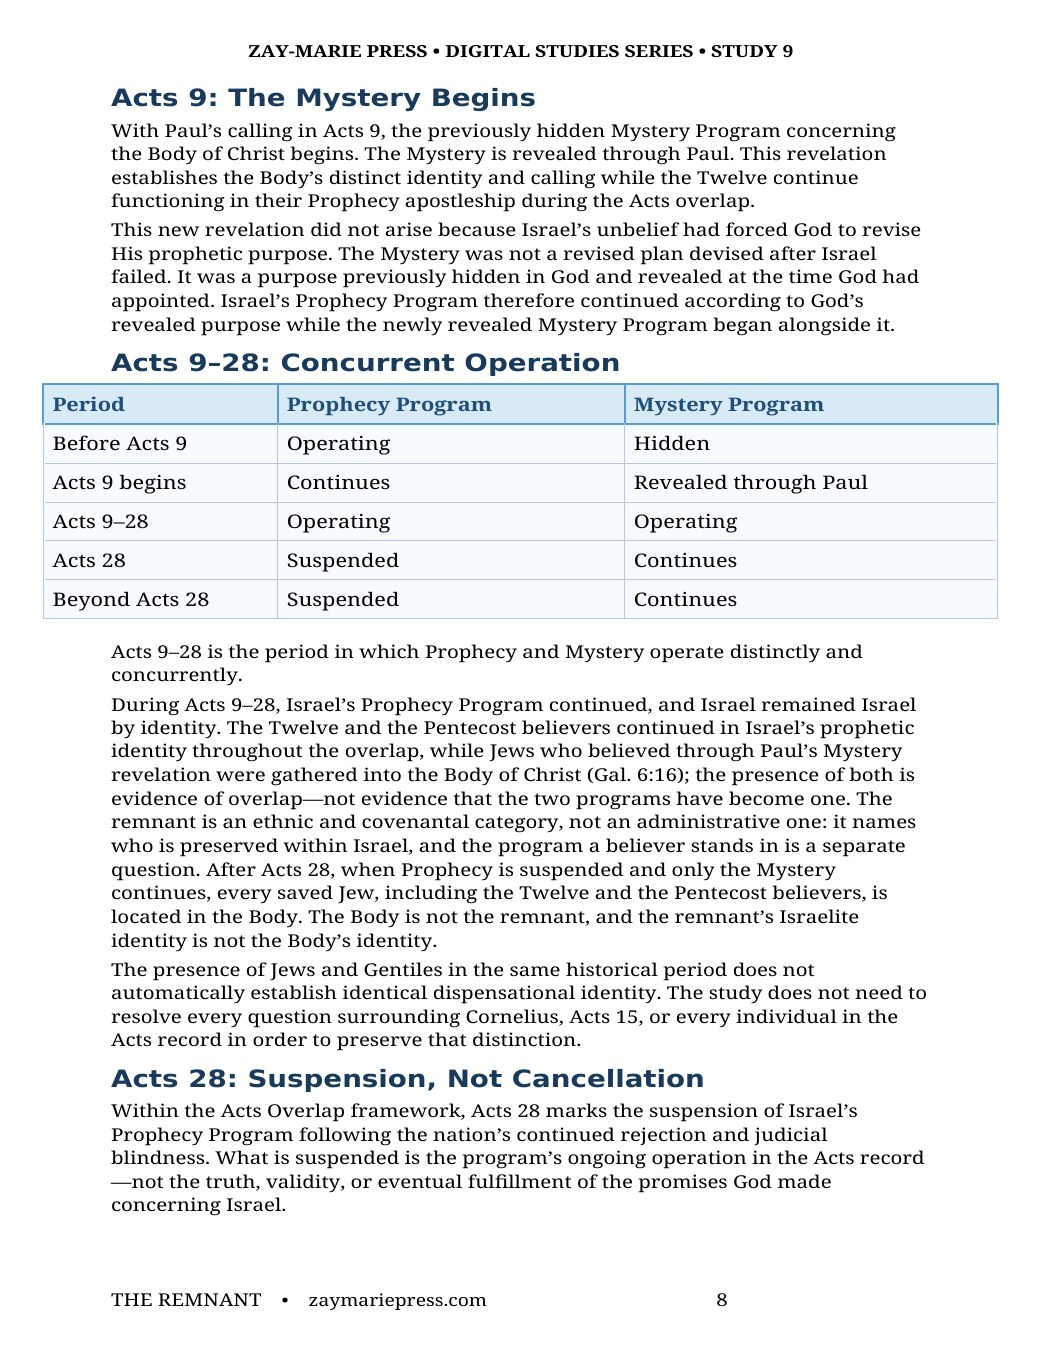
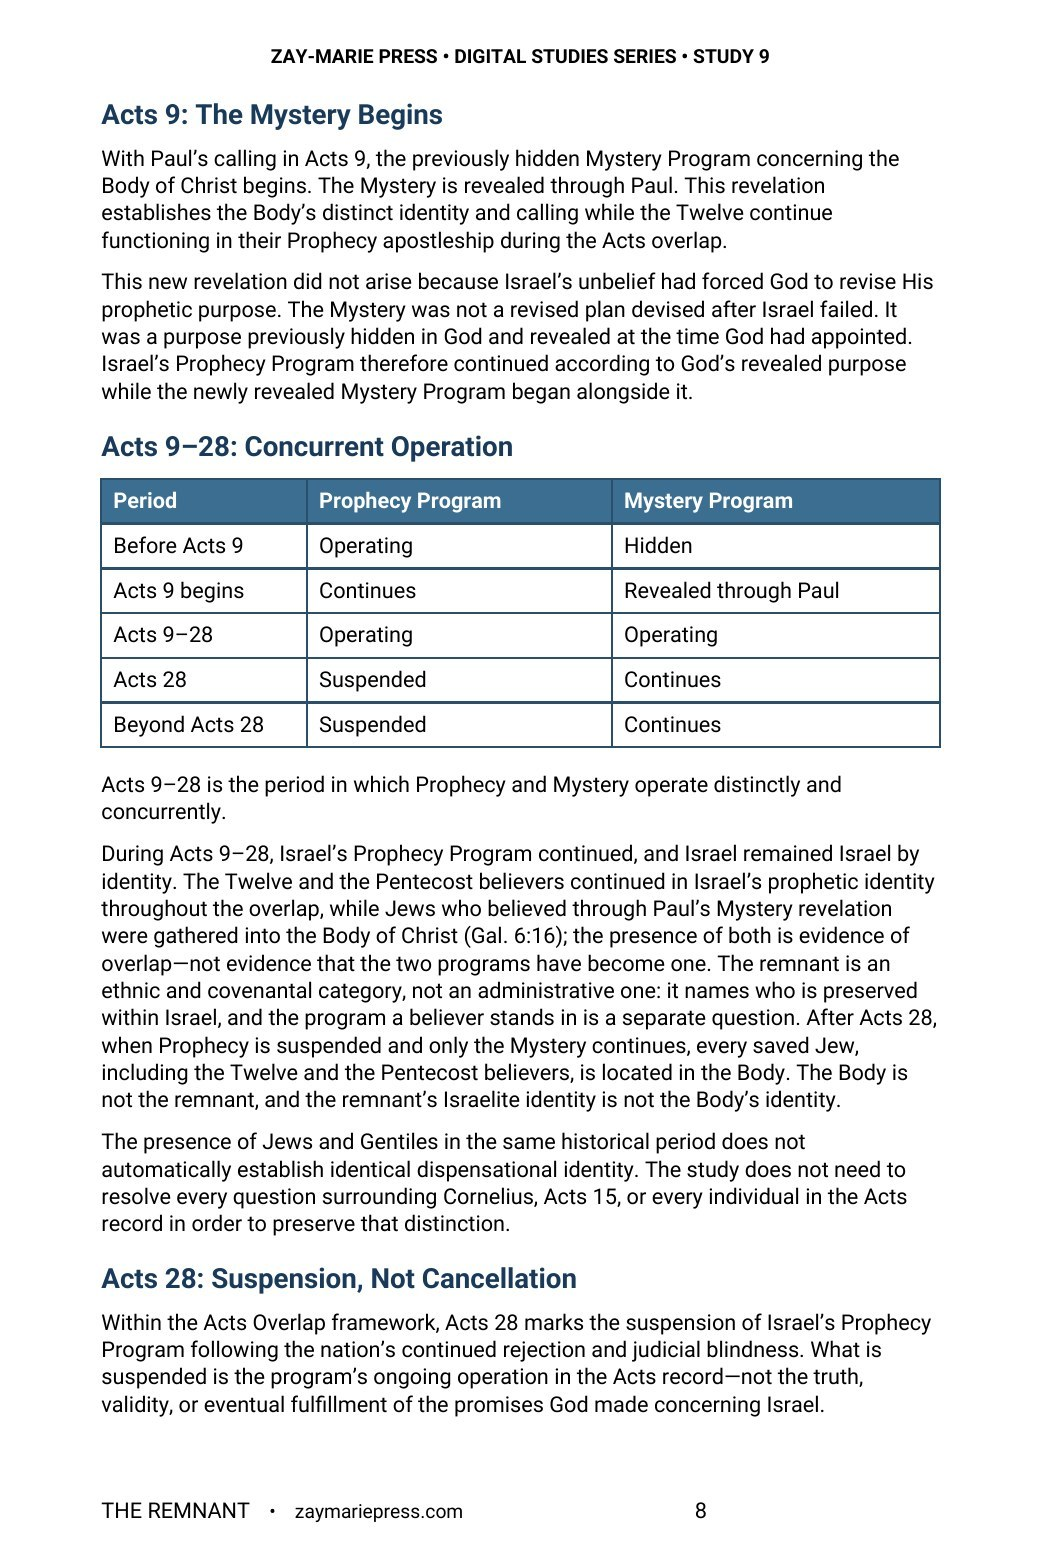
Study 9: preview strip re-cut from the Roboto rebuild (TOC p2, What You Will Learn p3, Acts 9-28 p8); audit tracker v1.23
Claude-Session: https://claude.ai/code/session_01TLNFW47XCW6YAMUxScR3v4

Changed region(s): [[0.0307, 0.0312, 0.9837, 0.9042], [0.0922, 0.9354, 0.2459, 0.9666]]

diff --git a/study-09-the-remnant.html b/study-09-the-remnant.html
@@ -14,7 +14,7 @@
 <section class="detail-section soft"><div class="wrap"><div class="eyebrow">WHAT YOU’LL STUDY</div><h2>God’s Faithfulness Preserves Distinction</h2><div class="study-points"><div class="study-point"><h3>The Biblical Pattern of Preservation</h3><p>See how God preserves through judgment without turning every example into the same remnant category.</p></div><div class="study-point"><h3>The Remnant Within Israel</h3><p>Follow the remnant from Elijah and the prophets into Paul’s argument in Romans 11.</p></div><div class="study-point"><h3>Messiah, the Kingdom, and Believing Israel</h3><p>Distinguish Israel’s Kingdom apostleship from the Body of Christ, and trace where believing Jews stand in the Mystery administration.</p></div><div class="study-point"><h3>The Remnant During the Acts Overlap</h3><p>Follow the remnant category through Acts 9–28 as Prophecy and Mystery operate together, without merging the two programs.</p></div><div class="study-point"><h3>Romans 11: Preservation Without Identity Transfer</h3><p>Work through Elijah, the remnant according to grace, and the olive tree without collapsing participation into identity.</p></div><div class="study-point"><h3>Two Distinct Destinies, One Faithful God</h3><p>Preserve Israel’s prophetic future and the Body’s heavenly calling in their distinct revealed settings.</p></div></div></div></section>
 <section class="detail-section cream"><div class="wrap"><div class="eyebrow">KEY SCRIPTURES</div><h2>Examine the Passages for Yourself</h2><div class="scripture-grid"><div class="scripture-card"><h3>Genesis 6–7</h3><p>Establishes the broad pattern of God preserving through judgment.</p></div><div class="scripture-card"><h3>1 Kings 19:18</h3><p>Records God’s preserved seven thousand within Israel in Elijah’s day.</p></div><div class="scripture-card"><h3>Isaiah 10:20–22</h3><p>Sets the remnant within Israel’s prophetic judgment and future return.</p></div><div class="scripture-card"><h3>Jeremiah 23:3</h3><p>Promises the gathering of Israel’s remnant from the countries of scattering.</p></div><div class="scripture-card"><h3>Matthew 19:28</h3><p>Places the Twelve within Israel’s future Kingdom setting.</p></div><div class="scripture-card"><h3>Romans 9–11</h3><p>Develops Israel, election, the remnant, Gentiles, and God’s continuing faithfulness.</p></div><div class="scripture-card"><h3>Acts 28:25–28</h3><p>Marks the suspension of Israel’s Prophecy Program without cancellation of Israel’s promises.</p></div><div class="scripture-card"><h3>Revelation 7:4–8</h3><p>Identifies Israel’s tribes within the continuing prophetic horizon.</p></div></div></div></section>
 <section class="detail-section"><div class="wrap"><div class="eyebrow">FROM THE STUDY</div><h2>God Is Faithful</h2><div class="excerpt"><blockquote>“The remnant is not the reason God is faithful. The remnant is evidence that God is faithful.”</blockquote><p>Israel’s unbelief, judgment, and suspension do not erase what God revealed concerning Israel. Likewise, the Mystery revealed through Paul does not require Israel to become the Body of Christ. God preserves the distinctions He revealed and fulfills each purpose according to its own calling.</p></div></div></section>
-<section class="detail-section soft"><div class="wrap"><div class="eyebrow">A LOOK INSIDE</div><h2>Preview the Study Before You Purchase</h2><p class="preview-instruction">Click any page to enlarge it for reading.</p><div class="preview-grid"><div class="preview-card"><a class="preview-image-link" data-preview-lightbox href="assets/study-09-page-3.jpg"><img src="assets/study-09-page-3.jpg" alt="Study 9 interior preview — page 3, table of contents"/></a><div class="page-no">Page 3</div><h3>Table of Contents</h3><p>See the full structure of the study, from the introduction through the final synthesis.</p></div><div class="preview-card"><a class="preview-image-link" data-preview-lightbox href="assets/study-09-page-2.jpg"><img src="assets/study-09-page-2.jpg" alt="Study 9 interior preview — page 2, what you will learn in this study"/></a><div class="page-no">Page 2</div><h3>What You Will Learn</h3><p>See the study’s learning outcomes, remnant focus, and governing distinctions at a glance.</p></div><div class="preview-card"><a class="preview-image-link" data-preview-lightbox href="assets/study-09-page-8.jpg"><img src="assets/study-09-page-8.jpg" alt="Study 9 interior preview — page 8, Acts 9–28 concurrent operation"/></a><div class="page-no">Page 8</div><h3>Acts 9–28: Concurrent Operation</h3><p>Follow how the remnant category is read alongside the overlap period.</p></div></div></div></section>
+<section class="detail-section soft"><div class="wrap"><div class="eyebrow">A LOOK INSIDE</div><h2>Preview the Study Before You Purchase</h2><p class="preview-instruction">Click any page to enlarge it for reading.</p><div class="preview-grid"><div class="preview-card"><a class="preview-image-link" data-preview-lightbox href="assets/study-09-page-2.jpg"><img src="assets/study-09-page-2.jpg" alt="Study 9 interior preview — page 2, table of contents"/></a><div class="page-no">Page 2</div><h3>Table of Contents</h3><p>See the full structure of the study, from the introduction through the final synthesis.</p></div><div class="preview-card"><a class="preview-image-link" data-preview-lightbox href="assets/study-09-page-3.jpg"><img src="assets/study-09-page-3.jpg" alt="Study 9 interior preview — page 3, what you will learn in this study"/></a><div class="page-no">Page 3</div><h3>What You Will Learn</h3><p>See the study’s learning outcomes, remnant focus, and governing distinctions at a glance.</p></div><div class="preview-card"><a class="preview-image-link" data-preview-lightbox href="assets/study-09-page-8.jpg"><img src="assets/study-09-page-8.jpg" alt="Study 9 interior preview — page 8, Acts 9–28 concurrent operation"/></a><div class="page-no">Page 8</div><h3>Acts 9–28: Concurrent Operation</h3><p>Follow how the remnant category is read alongside the overlap period.</p></div></div></div></section>
 <section class="detail-section"><div class="wrap"><div class="eyebrow">WHAT’S INCLUDED</div><h2>A Focused Study Built for<br/>Understanding and Teaching</h2><div class="includes-grid"><div class="include-item"><h3>16-Page In-Depth Biblical Study</h3><p>A careful biblical study of Israel’s remnant, preservation, and prophetic future.</p></div><div class="include-item"><h3>Seven Core Teaching Sections</h3><p>Move from preservation through judgment to Romans 11 and prophetic fulfillment.</p></div><div class="include-item"><h3>Remnant Scripture Trace</h3><p>Follow the theme from Genesis and Elijah through the prophets, Acts, Romans, and Revelation.</p></div><div class="include-item"><h3>Romans 11 and Olive-Tree Study</h3><p>Examine Israel, the remnant, Gentiles, branches, and participation without identity transfer.</p></div><div class="include-item"><h3>Ten Review Questions</h3><p>Test the study’s distinctions concerning preservation, Israel, Acts 28, and the Body.</p></div><div class="include-item"><h3>Teaching Outline</h3><p>A ready framework for presenting God’s faithfulness to Israel with precision.</p></div><div class="include-item"><h3>Guided Further Study</h3><p>Read Romans 9–11 as one argument, then compare it with the remnant passages.</p></div><div class="include-item"><h3>Final Synthesis Exercise</h3><p>Bring the evidence together while preserving Israel’s prophetic identity and the Body’s distinct calling.</p></div></div></div></section>
 <section class="detail-section cream"><div class="wrap"><div class="final-buy"><div><div class="eyebrow">STUDY 9 · DIGITAL STUDY</div><h2>The Remnant</h2><p>16-page digital PDF · For personal use</p></div><div class="final-offer"><div class="detail-price">$5.99</div><span class="detail-button pending" aria-disabled="true">Get the Study</span></div></div><a class="back-link" href="digital-studies.html">← Back to All Digital Studies</a></div></section><section class="study-method-course-bridge"><div class="wrap"><div class="study-method-course-panel"><div><div class="eyebrow">BUILD THE INTERPRETIVE METHOD</div><h2>Want More Than a Focused Study?</h2><p>Digital Studies examine particular biblical subjects and difficult passages. The 40-lesson Biblical Hermeneutics course teaches a complete, repeatable method for establishing meaning in context, determining proper assignment, and making responsible application.</p></div><a class="btn btn-primary" href="biblical-hermeneutics-course.html">BIBLICAL HERMENEUTICS COURSE</a></div></div></section></main>
 <div class="preview-lightbox" id="preview-lightbox" role="dialog" aria-modal="true" aria-label="Enlarged study page preview"><button class="preview-lightbox-close" type="button" aria-label="Close enlarged preview">×</button><img src="" alt=""/><div class="preview-lightbox-hint">Scroll to read the full page · Press Esc or click outside the page to close</div></div>

diff --git a/controlling-documents/Digital_Studies_PAM_Audit_v1.23.md b/controlling-documents/Digital_Studies_PAM_Audit_v1.23.md
@@ -1,4 +1,4 @@
-# Digital Studies vs. PAM Audit — v1.22
+# Digital Studies vs. PAM Audit — v1.23
 
 Working tracker and instructions for checking the Digital Studies against the Program Assignment Manual (PAM), §XIX of `Framework_Control_Document_Acts_Overlap.docx`, including its "Section 4 — Publisher Rulings". Same `_vX.Y` convention as the other controlling documents: update the status table and changelog as the audit proceeds, bump the version, and rename the file to match.
 
@@ -249,3 +249,4 @@ Study 15 PDF not yet supplied. Typography: none of Studies 2, 3, 6, 8 is in EB G
 - v1.20 (2026-09-30): Batch 1 results logged for Studies 2, 3, 6 and 8 (all clear against the PAM; TOC defects found in Studies 2 and 8). Local only, not pushed.
 - v1.21 (2026-09-30): Typography decision. After a Study 2 test build, the publisher chose **Roboto** (not EB Garamond) as the one interior typeface for all studies and Doctrinal Packets, past, present and future. Master Standard v1.27 (rebuilt .docx and .pdf in `controlling-documents/`), Framework PAM Rule 6 plus a dated Section 4 (continued) entry, `fonts/` (static Roboto files and build recipe) and CLAUDE.md updated. Study 2 rebuilt in Roboto (15 pages, only Roboto faces embedded, TOC page numbers recomputed and verified, Study Outline entry dropped from the TOC); the publisher swaps the PDF himself. **Consequence:** Study 1's live preview images (page 2, 3, 13) and its delivered PDF are in EB Garamond and must be rebuilt in Roboto for consistency; Study 2's website previews must be re-cut from the Roboto PDF. Both pending the publisher's approval of rendered pages.
 - v1.22 (2026-09-30): Studies 1 and 2 rebuilt in Roboto at 9 pt (14 pages each, original covers kept, TOC numbers verified). Study 2: two "What You Will Learn" bullets rewritten under §17 (publisher-approved), preview strip replaced with TOC, What You Will Learn and Introduction (§16), page count 15 to 14. Study 1 previews re-cut from the Roboto PDF. Roboto has no "→" or "□": build substitutes "›" and "[ ]" (see fonts/README.md). Publisher swaps both PDFs.
+- v1.23 (2026-09-30): Study 9 interior rebuilt from the publisher's DOCX (Study_9_The_Remnant_REVISED_FINAL.docx) in Roboto and brought to the Master Standard (publisher approved the rendered review copy v4, "i approve"). The DOCX predated the Standard. Changed: cover replaced with the approved full-bleed cover (the DOCX held a legacy cover with the title cropped); body 6 pt after / 1.08 line spacing, H1 14/8, H2 10/5 (were 2.5 pt / 0.98, 8/3, 6.5/3); callouts rebuilt as single light-blue boxes with a dark navy border, about 7 pt top/bottom and 8 pt left/right padding, 10 pt before and after, and increased from 3 to 5 (Study Goal, Study Chain, Interpretive Control, Acts 28 Control, Conclusion Control; the two new ones are the study's own sentences moved into boxes, wording unchanged); tables with Slate Blue (#3B6E91) headers, white text, dark single-line borders on every cell, plain white body rows, rows kept together; Table of Contents moved ahead of What You Will Learn (Master Standard section 3), with a What You Will Learn entry added; final imprint block added (section 10); one sentence split across two paragraphs in the Introduction ("The goal is not to create / one remnant community...") joined; blank page-break paragraph before Study Summary removed; Study Chain steps kept whole on each line. Left and right margins narrowed from 0.64 in to 0.58 in to hold the study at 15 interior pages without cutting text. 16 pages total (cover plus 15 interior), only Roboto faces embedded, 0 TOC mismatches. Website: preview strip now Page 2 Table of Contents, Page 3 What You Will Learn, Page 8 Acts 9-28 Concurrent Operation, images re-cut from the rebuilt PDF at 1041 x 1565 (the page is 6 x 9 in, so it keeps its own proportions); page count stays 16. **Open, not changed:** this DOCX prints the series line in the page header and "THE REMNANT - zaymariepress.com" as the footer (Master Standard section 11 wants the series footer); no interior title page (section 3); page size is 6 x 9 in while Studies 1 and 2 are letter. The publisher swaps the purchasable PDF himself. Live check of Study 9 was not possible from the workspace (Cloudflare Access sign-in).
